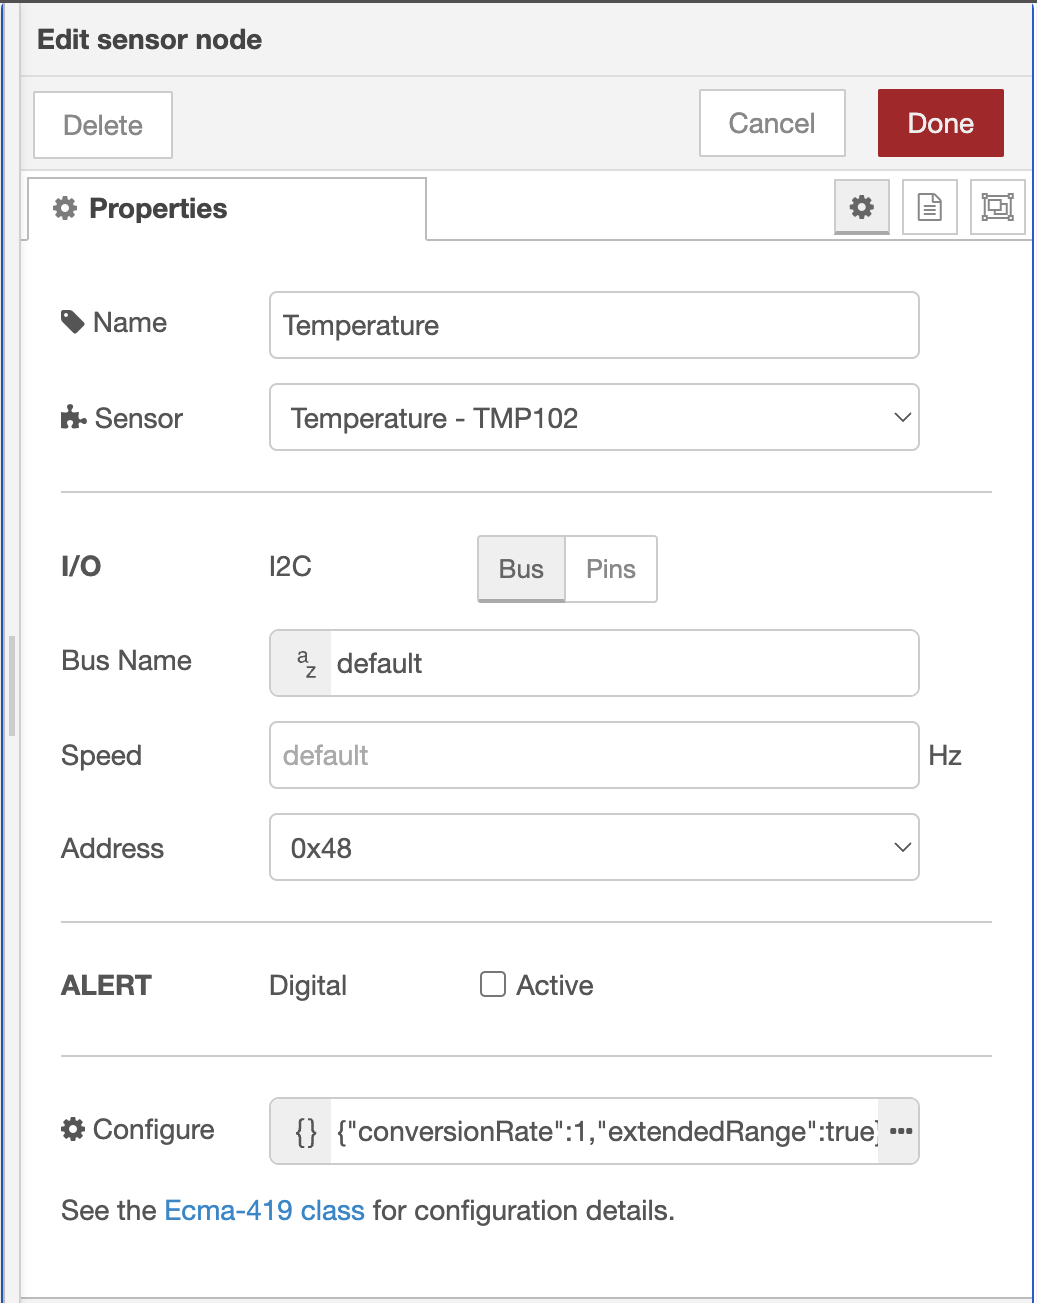
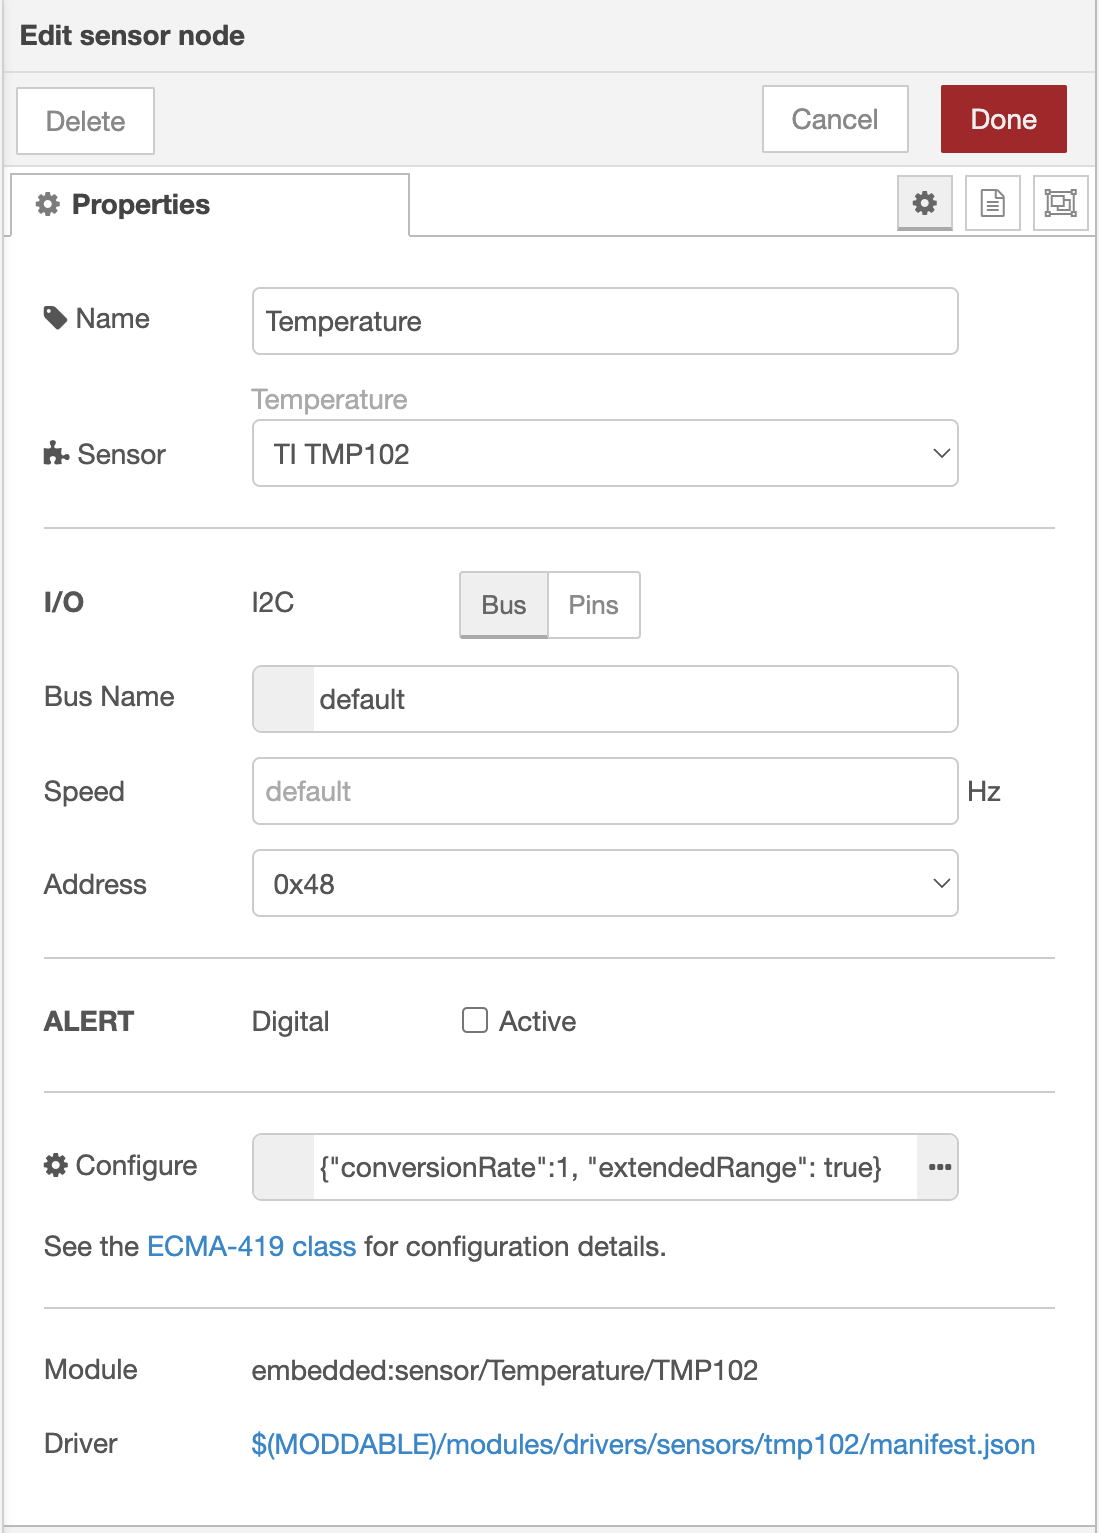
update sensor readme

diff --git a/nodes/sensor/readme.md b/nodes/sensor/readme.md
@@ -1,7 +1,7 @@
 # MCU Sensor Node
 Copyright 2022-2023, Moddable Tech, Inc. All rights reserved.<br>
 Peter Hoddie<br>
-Updated January 15, 2023<br>
+Updated January 25, 2023<br>
 
 ## Overview
 The sensor node integrates sensor classes that conform the Ecma-419 [Sensor Class Pattern](https://419.ecma-international.org/#-13-sensor-class-pattern) into Node-RED. These include:
@@ -78,7 +78,7 @@ A simple test flow using the Sensor node has an inject node to periodically trig
     },
     {
         "id": "81b44f35bce77331",
-        "type": "sensor",
+        "type": "mcu_sensor",
         "z": "430f6d9e27cbee39",
         "name": "Temperature",
         "platform": "",
@@ -138,7 +138,7 @@ Some hosts have built-in sensors that are automatically configured by the host p
 <img src="./assets/edit-sensor-node-host-provider.png" width=500/>
 
 ### Adding Sensor Driver to the Project Manifest
-To use the sensor, the sensor driver must be installed in your project's manifest.
+To use the sensor, the sensor driver must be installed in your project's manifest. The path of the sensor driver is shown at the bottom of the configuration dialog with the label "Driver" , if available.
 
 ```json
 	"modules": {
